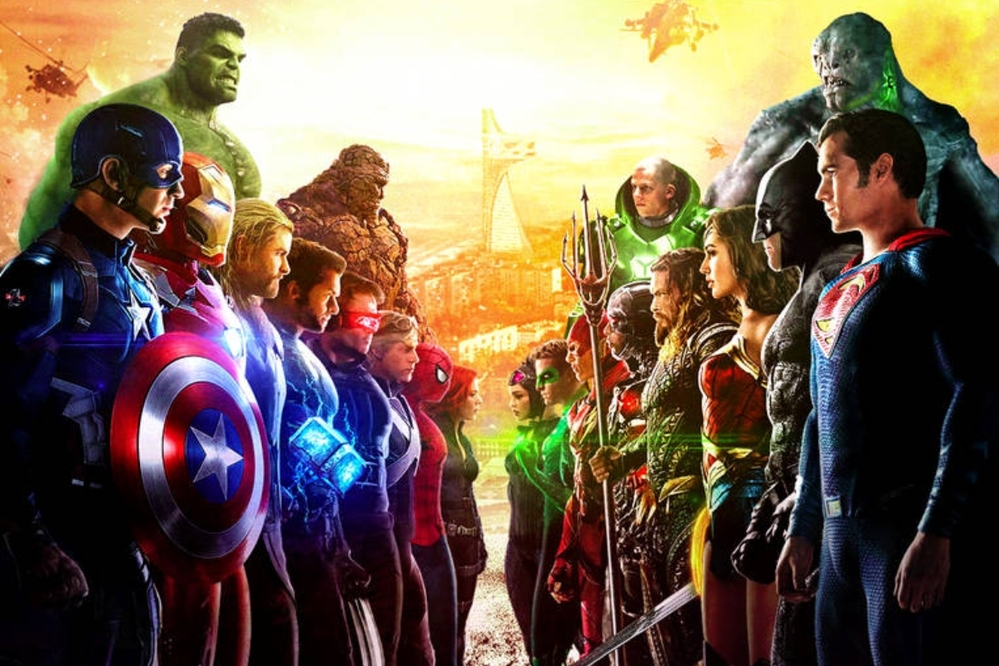
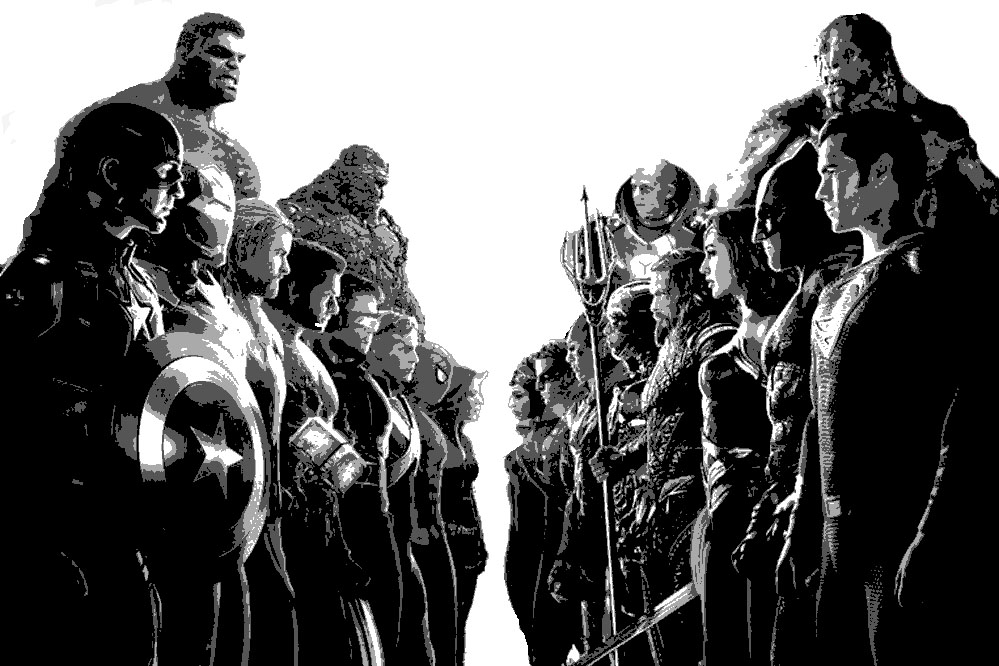
mudança no padrão de cores "acessibilidade"

diff --git a/style.css b/style.css
@@ -41,9 +41,64 @@
 .marvel a {
     width: 85px;
 }
+.marvel li:nth-child(1):hover {
+    -webkit-transform: scale(1.3);
+        -ms-transform: scale(1.3);
+        transform: scale(1.3);
+
+}
+.marvel li:nth-child(2):hover {
+    -webkit-transform: scale(1.3);
+        -ms-transform: scale(1.3);
+        transform: scale(1.3);
+
+}
+.marvel li:nth-child(3):hover {
+    -webkit-transform: scale(1.3);
+        -ms-transform: scale(1.3);
+        transform: scale(1.3);
+
+}
+.marvel li:nth-child(4):hover {
+    -webkit-transform: scale(1.3);
+        -ms-transform: scale(1.3);
+        transform: scale(1.3);
+
+}
+.marvel li:nth-child(5):hover {
+    -webkit-transform: scale(1.3);
+        -ms-transform: scale(1.3);
+        transform: scale(1.3);
+
+}
+.marvel li:nth-child(6):hover {
+    -webkit-transform: scale(1.3);
+        -ms-transform: scale(1.3);
+        transform: scale(1.3);
+
+}
+.marvel li:nth-child(7):hover {
+    -webkit-transform: scale(1.3);
+        -ms-transform: scale(1.3);
+        transform: scale(1.3);
+
+}
+.marvel li:nth-child(8):hover {
+    -webkit-transform: scale(1.3);
+        -ms-transform: scale(1.3);
+        transform: scale(1.3);
+
+}.marvel li:nth-child(9):hover {
+    -webkit-transform: scale(1.3);
+        -ms-transform: scale(1.3);
+        transform: scale(1.3);
+
+}
+
+
 .DC {
     position: absolute;
-    top: 500px;
+    top: 250px;
     right: 80px;
     font-size: 22px;
     font-family: Arial, Helvetica, sans-serif;

diff --git a/index.html b/index.html
@@ -36,10 +36,15 @@
         </section>
         <section class="DC">
            <ul>
-               <li>Super-Homem</li>
-               <li>Super-Homem</li>
-               <li>Super-Homem</li>
-               <li>Super-Homem</li>
+               <li><a title="Vingadores" href="" target="_blank"><img src="./img/marvel/vingadores.png" alt="vingadores" /></a></li>
+               <li><a title="Capitão-America" href="" target="_blank"><img src="./img/marvel/capitao-america.png" alt="capitao-america" /></a></li>
+               <li><a title="Homem-de-Ferro" href="" target="_blank"><img src="./img/marvel/homem-de-ferro.png" alt="homem-de-ferro" /></a></li>
+               <li><a title="Hulk" href="" target="_blank"><img src="./img/marvel/hulk.png" alt="hulk" /></a></li>
+               <li><a title="Thor" href="" target="_blank"><img src="./img/marvel/thor.png" alt="thor" /></a></li>
+               <li><a title="X-Man" href="" target="_blank"><img src="./img/marvel/x-man.png" alt="x-man" /></a></li>
+               <li><a title="Homem-Aranha" href="" target="_blank"><img src="./img/marvel/homem-aranha.png" alt="homem-aranha" /></a></li>
+               <li><a title="Dr-Estranho" href="" target="_blank"><img src="./img/marvel/dr-estranho.png" alt="dr-estranho" /></a></li>
+               <li><a title="Viuva-Negra" href="" target="_blank"><img src="./img/marvel/viuva-negra.png" alt="viuva-negra" /></a></li>
            </ul>
         </section>
     </main>
